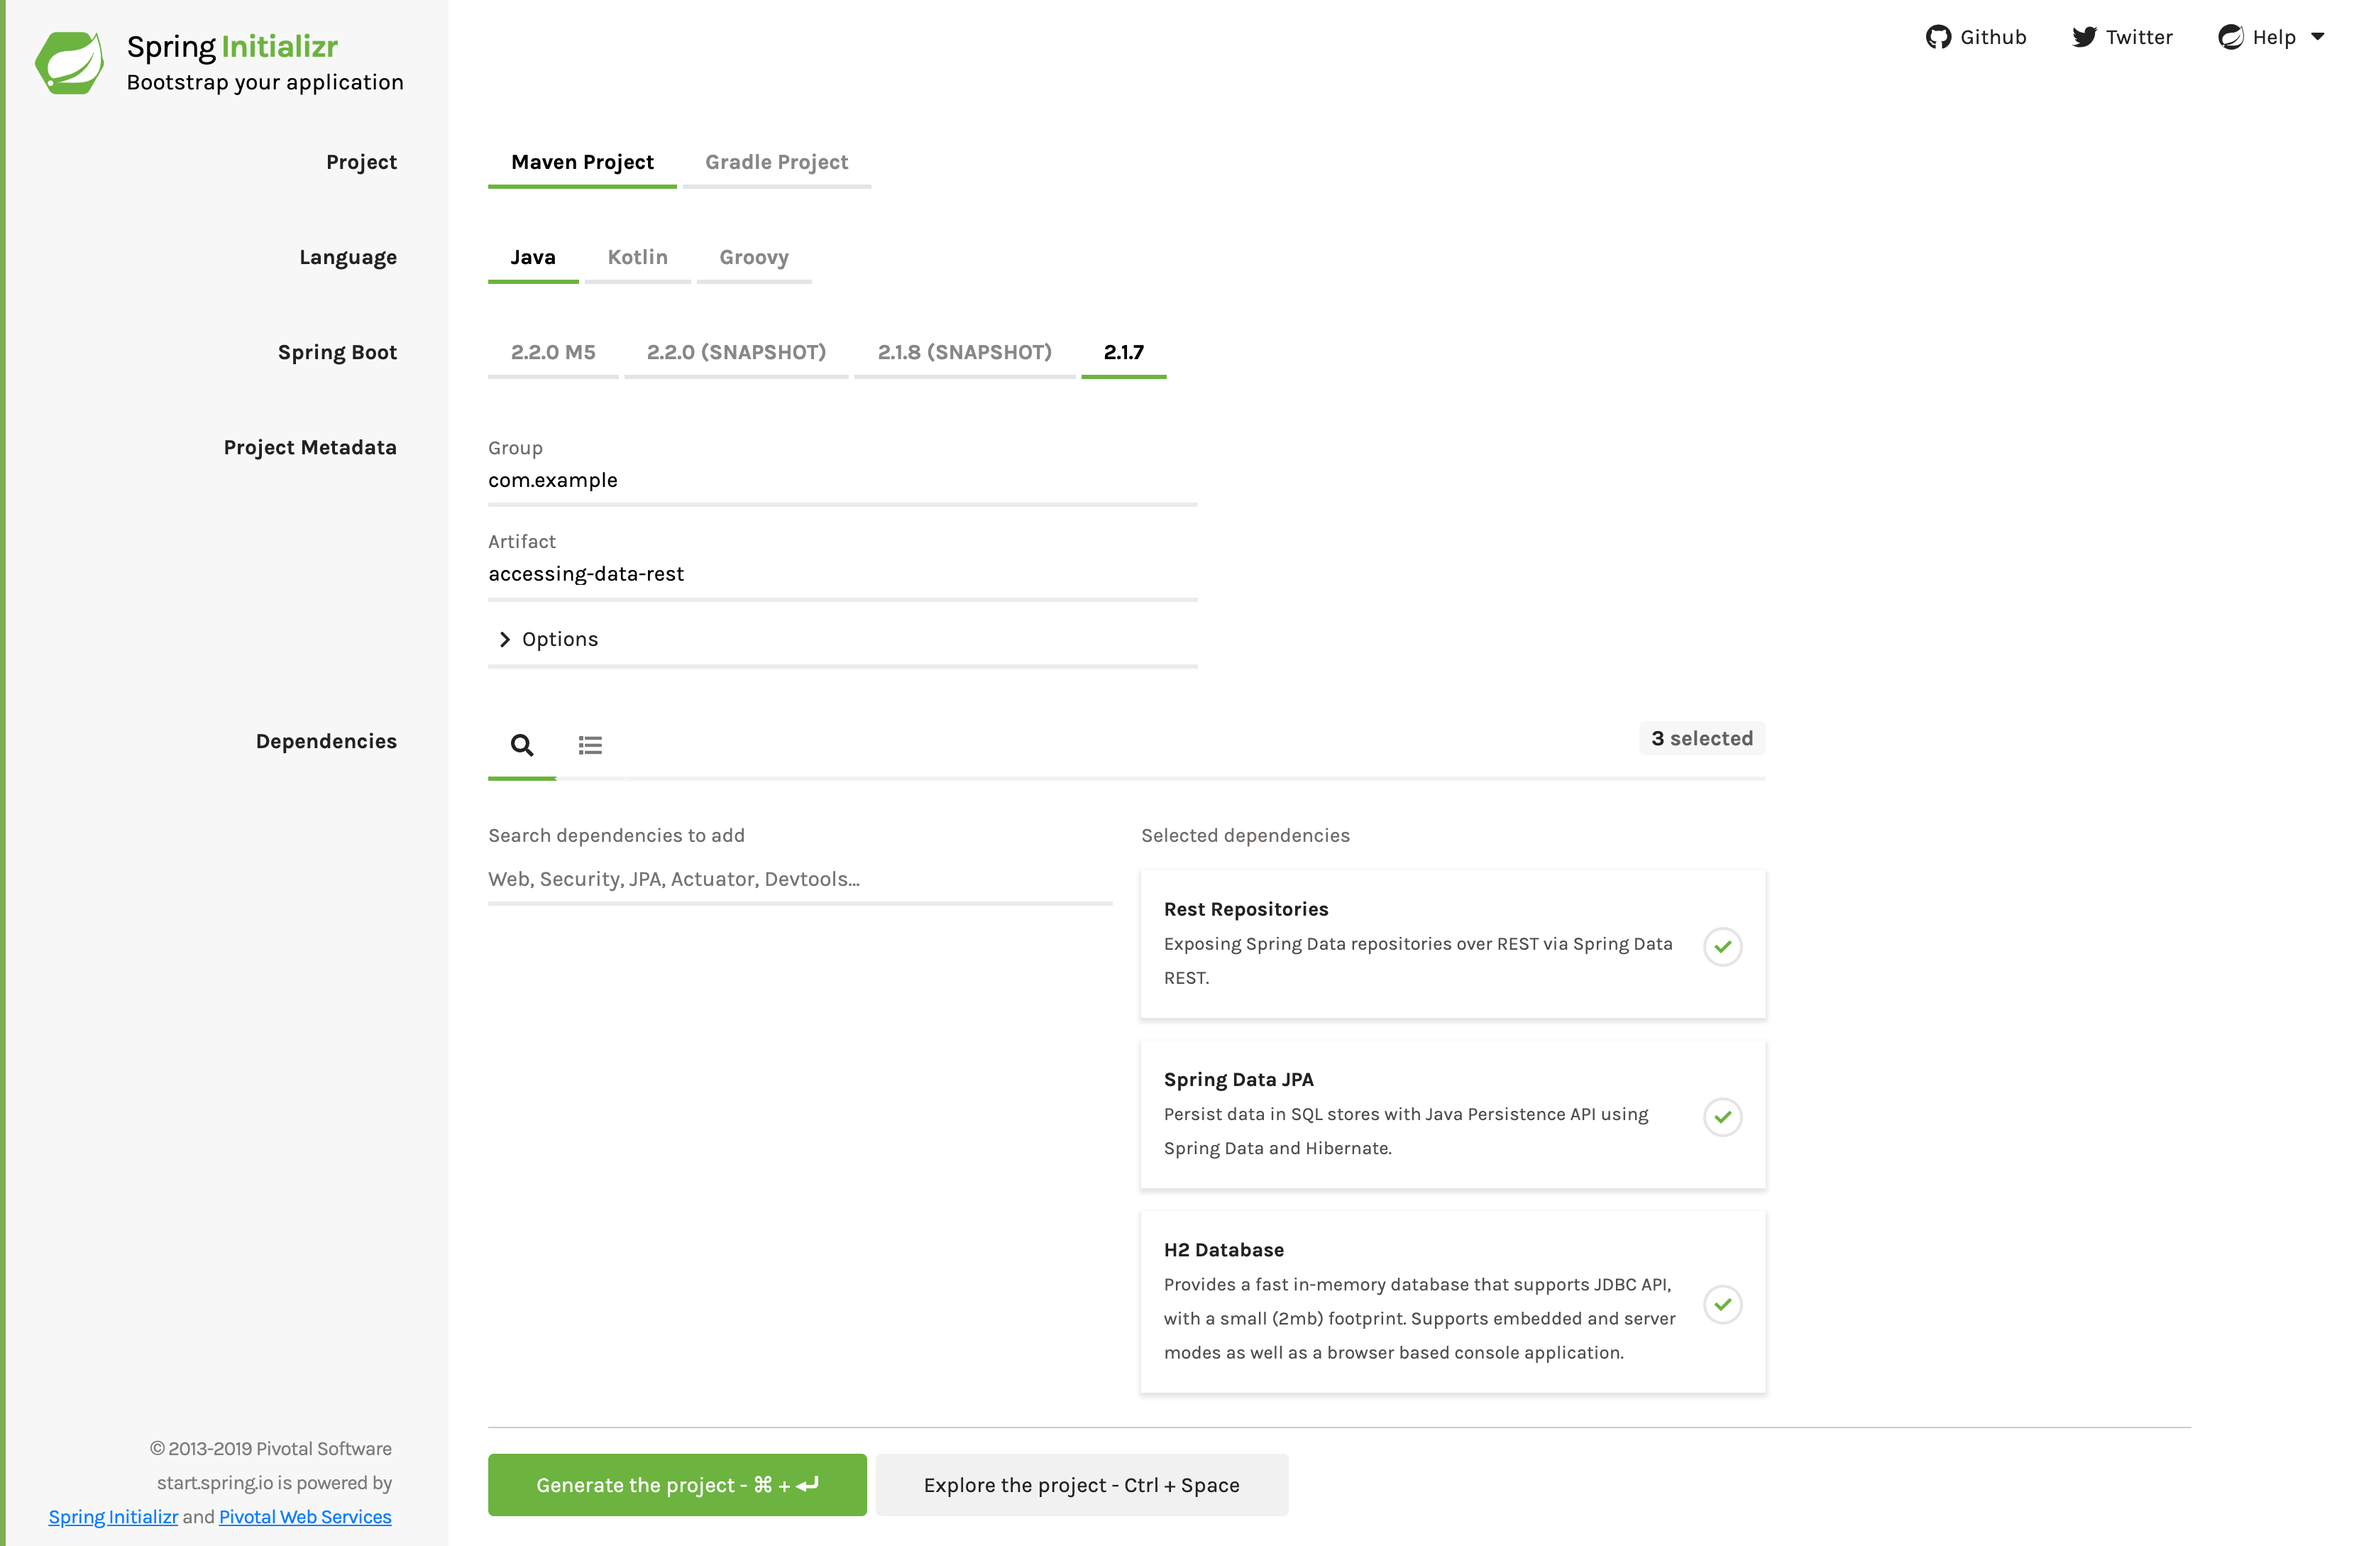
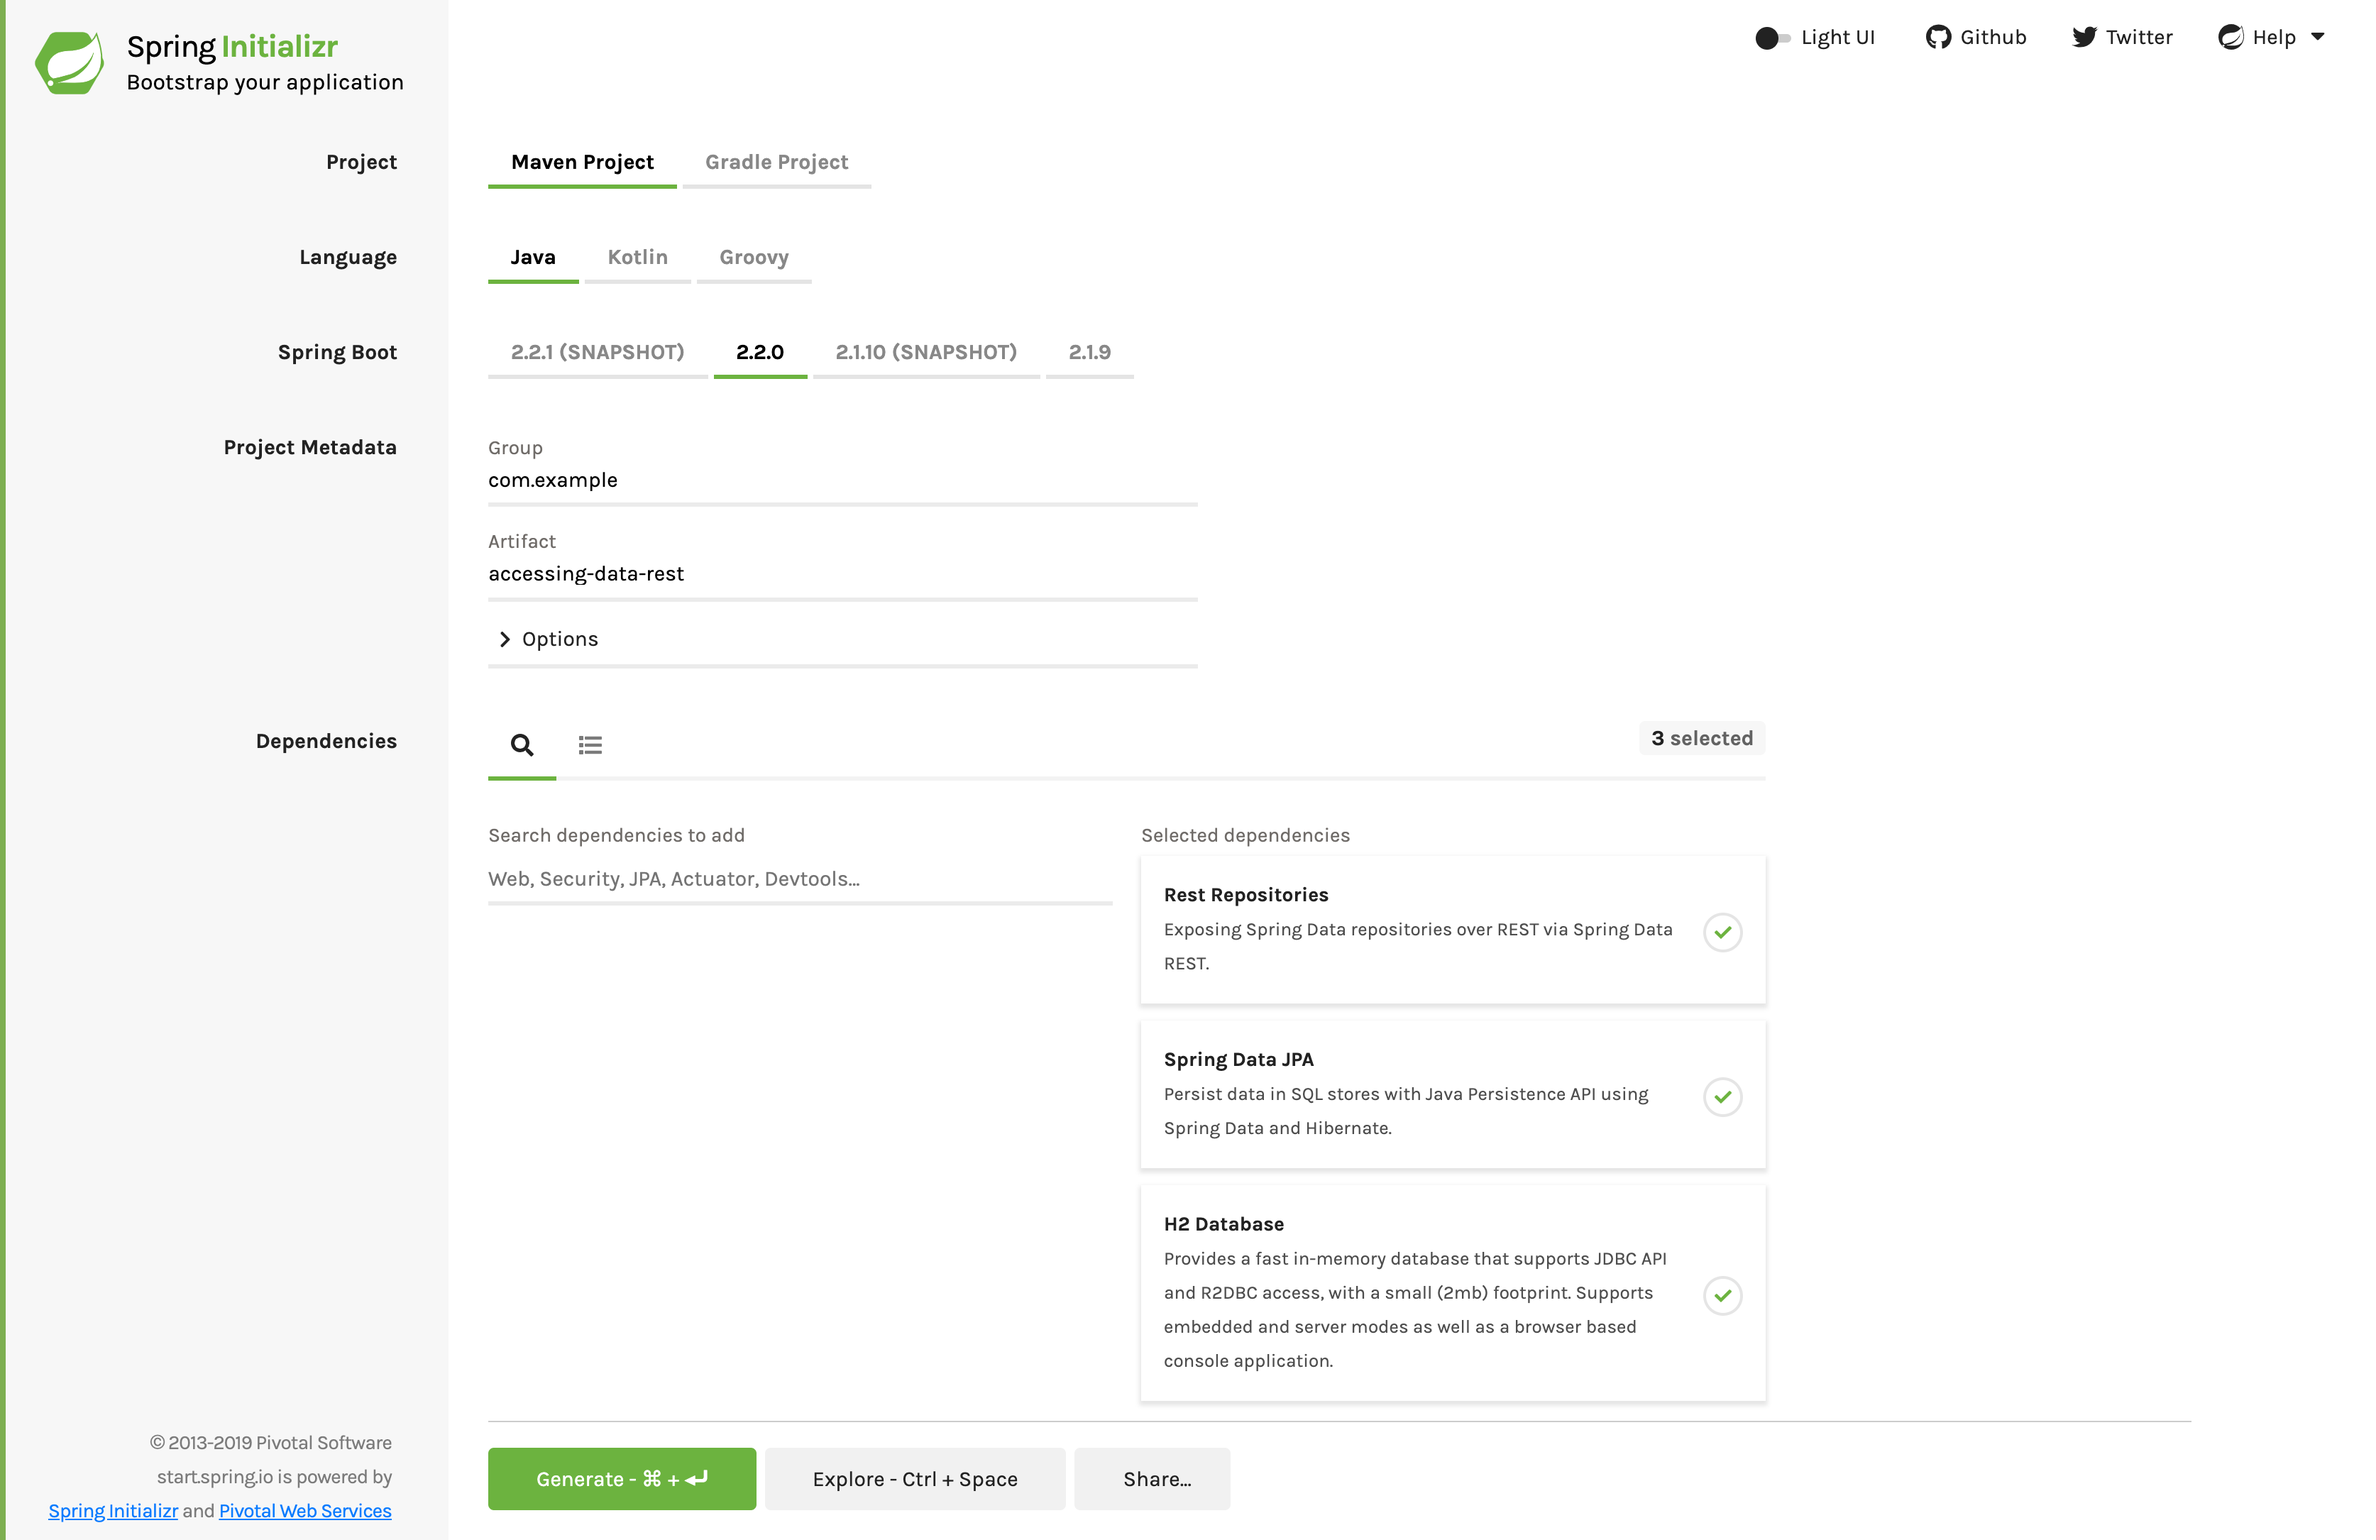
Upgraded to Spring Boot 2.2
I upgraded to Spring Boot 2.2, which necessitated upgrading to JUnit 5 and replacing the Gradle wrappers.

diff --git a/complete/src/test/java/com/example/accessingdatarest/AccessingDataRestApplicationTests.java b/complete/src/test/java/com/example/accessingdatarest/AccessingDataRestApplicationTests.java
@@ -16,9 +16,10 @@
 
 package com.example.accessingdatarest;
 
-import org.junit.Before;
-import org.junit.Test;
-import org.junit.runner.RunWith;
+import org.junit.jupiter.api.BeforeAll;
+import org.junit.jupiter.api.Test;
+import org.junit.jupiter.api.extension.ExtendWith;
+import org.springframework.test.context.junit.jupiter.SpringExtension;
 
 import org.springframework.beans.factory.annotation.Autowired;
 import org.springframework.boot.test.autoconfigure.web.servlet.AutoConfigureMockMvc;
@@ -32,31 +33,31 @@ import static org.springframework.test.web.servlet.request.MockMvcRequestBuilder
 import static org.springframework.test.web.servlet.result.MockMvcResultHandlers.*;
 import static org.springframework.test.web.servlet.result.MockMvcResultMatchers.*;
 
-@RunWith(SpringRunner.class)
+@ExtendWith(SpringExtension.class)
 @SpringBootTest
 @AutoConfigureMockMvc
 public class AccessingDataRestApplicationTests {
 
 	@Autowired
-	private MockMvc mockMvc;
+	private static MockMvc mockMvc;
 
 	@Autowired
-	private PersonRepository personRepository;
+	private static PersonRepository personRepository;
 
-	@Before
-	public void deleteAllBeforeTests() throws Exception {
+	@BeforeAll
+	public static void deleteAllBeforeTests() throws Exception {
 		personRepository.deleteAll();
 	}
 
 	@Test
-	public void shouldReturnRepositoryIndex() throws Exception {
+	public static void shouldReturnRepositoryIndex() throws Exception {
 
 		mockMvc.perform(get("/")).andDo(print()).andExpect(status().isOk()).andExpect(
 				jsonPath("$._links.people").exists());
 	}
 
 	@Test
-	public void shouldCreateEntity() throws Exception {
+	public static void shouldCreateEntity() throws Exception {
 
 		mockMvc.perform(post("/people").content(
 				"{\"firstName\": \"Frodo\", \"lastName\":\"Baggins\"}")).andExpect(
@@ -65,7 +66,7 @@ public class AccessingDataRestApplicationTests {
 	}
 
 	@Test
-	public void shouldRetrieveEntity() throws Exception {
+	public static void shouldRetrieveEntity() throws Exception {
 
 		MvcResult mvcResult = mockMvc.perform(post("/people").content(
 				"{\"firstName\": \"Frodo\", \"lastName\":\"Baggins\"}")).andExpect(
@@ -78,7 +79,7 @@ public class AccessingDataRestApplicationTests {
 	}
 
 	@Test
-	public void shouldQueryEntity() throws Exception {
+	public static void shouldQueryEntity() throws Exception {
 
 		mockMvc.perform(post("/people").content(
 				"{ \"firstName\": \"Frodo\", \"lastName\":\"Baggins\"}")).andExpect(
@@ -92,7 +93,7 @@ public class AccessingDataRestApplicationTests {
 	}
 
 	@Test
-	public void shouldUpdateEntity() throws Exception {
+	public static void shouldUpdateEntity() throws Exception {
 
 		MvcResult mvcResult = mockMvc.perform(post("/people").content(
 				"{\"firstName\": \"Frodo\", \"lastName\":\"Baggins\"}")).andExpect(
@@ -110,7 +111,7 @@ public class AccessingDataRestApplicationTests {
 	}
 
 	@Test
-	public void shouldPartiallyUpdateEntity() throws Exception {
+	public static void shouldPartiallyUpdateEntity() throws Exception {
 
 		MvcResult mvcResult = mockMvc.perform(post("/people").content(
 				"{\"firstName\": \"Frodo\", \"lastName\":\"Baggins\"}")).andExpect(
@@ -128,7 +129,7 @@ public class AccessingDataRestApplicationTests {
 	}
 
 	@Test
-	public void shouldDeleteEntity() throws Exception {
+	public static void shouldDeleteEntity() throws Exception {
 
 		MvcResult mvcResult = mockMvc.perform(post("/people").content(
 				"{ \"firstName\": \"Bilbo\", \"lastName\":\"Baggins\"}")).andExpect(

diff --git a/initial/src/test/java/com/example/accessingdatarest/AccessingDataRestApplicationTests.java b/initial/src/test/java/com/example/accessingdatarest/AccessingDataRestApplicationTests.java
@@ -1,0 +1,13 @@
+package com.example.accessingdatarest;
+
+import org.junit.jupiter.api.Test;
+import org.springframework.boot.test.context.SpringBootTest;
+
+@SpringBootTest
+class AccessingDataRestApplicationTests {
+
+	@Test
+	void contextLoads() {
+	}
+
+}
